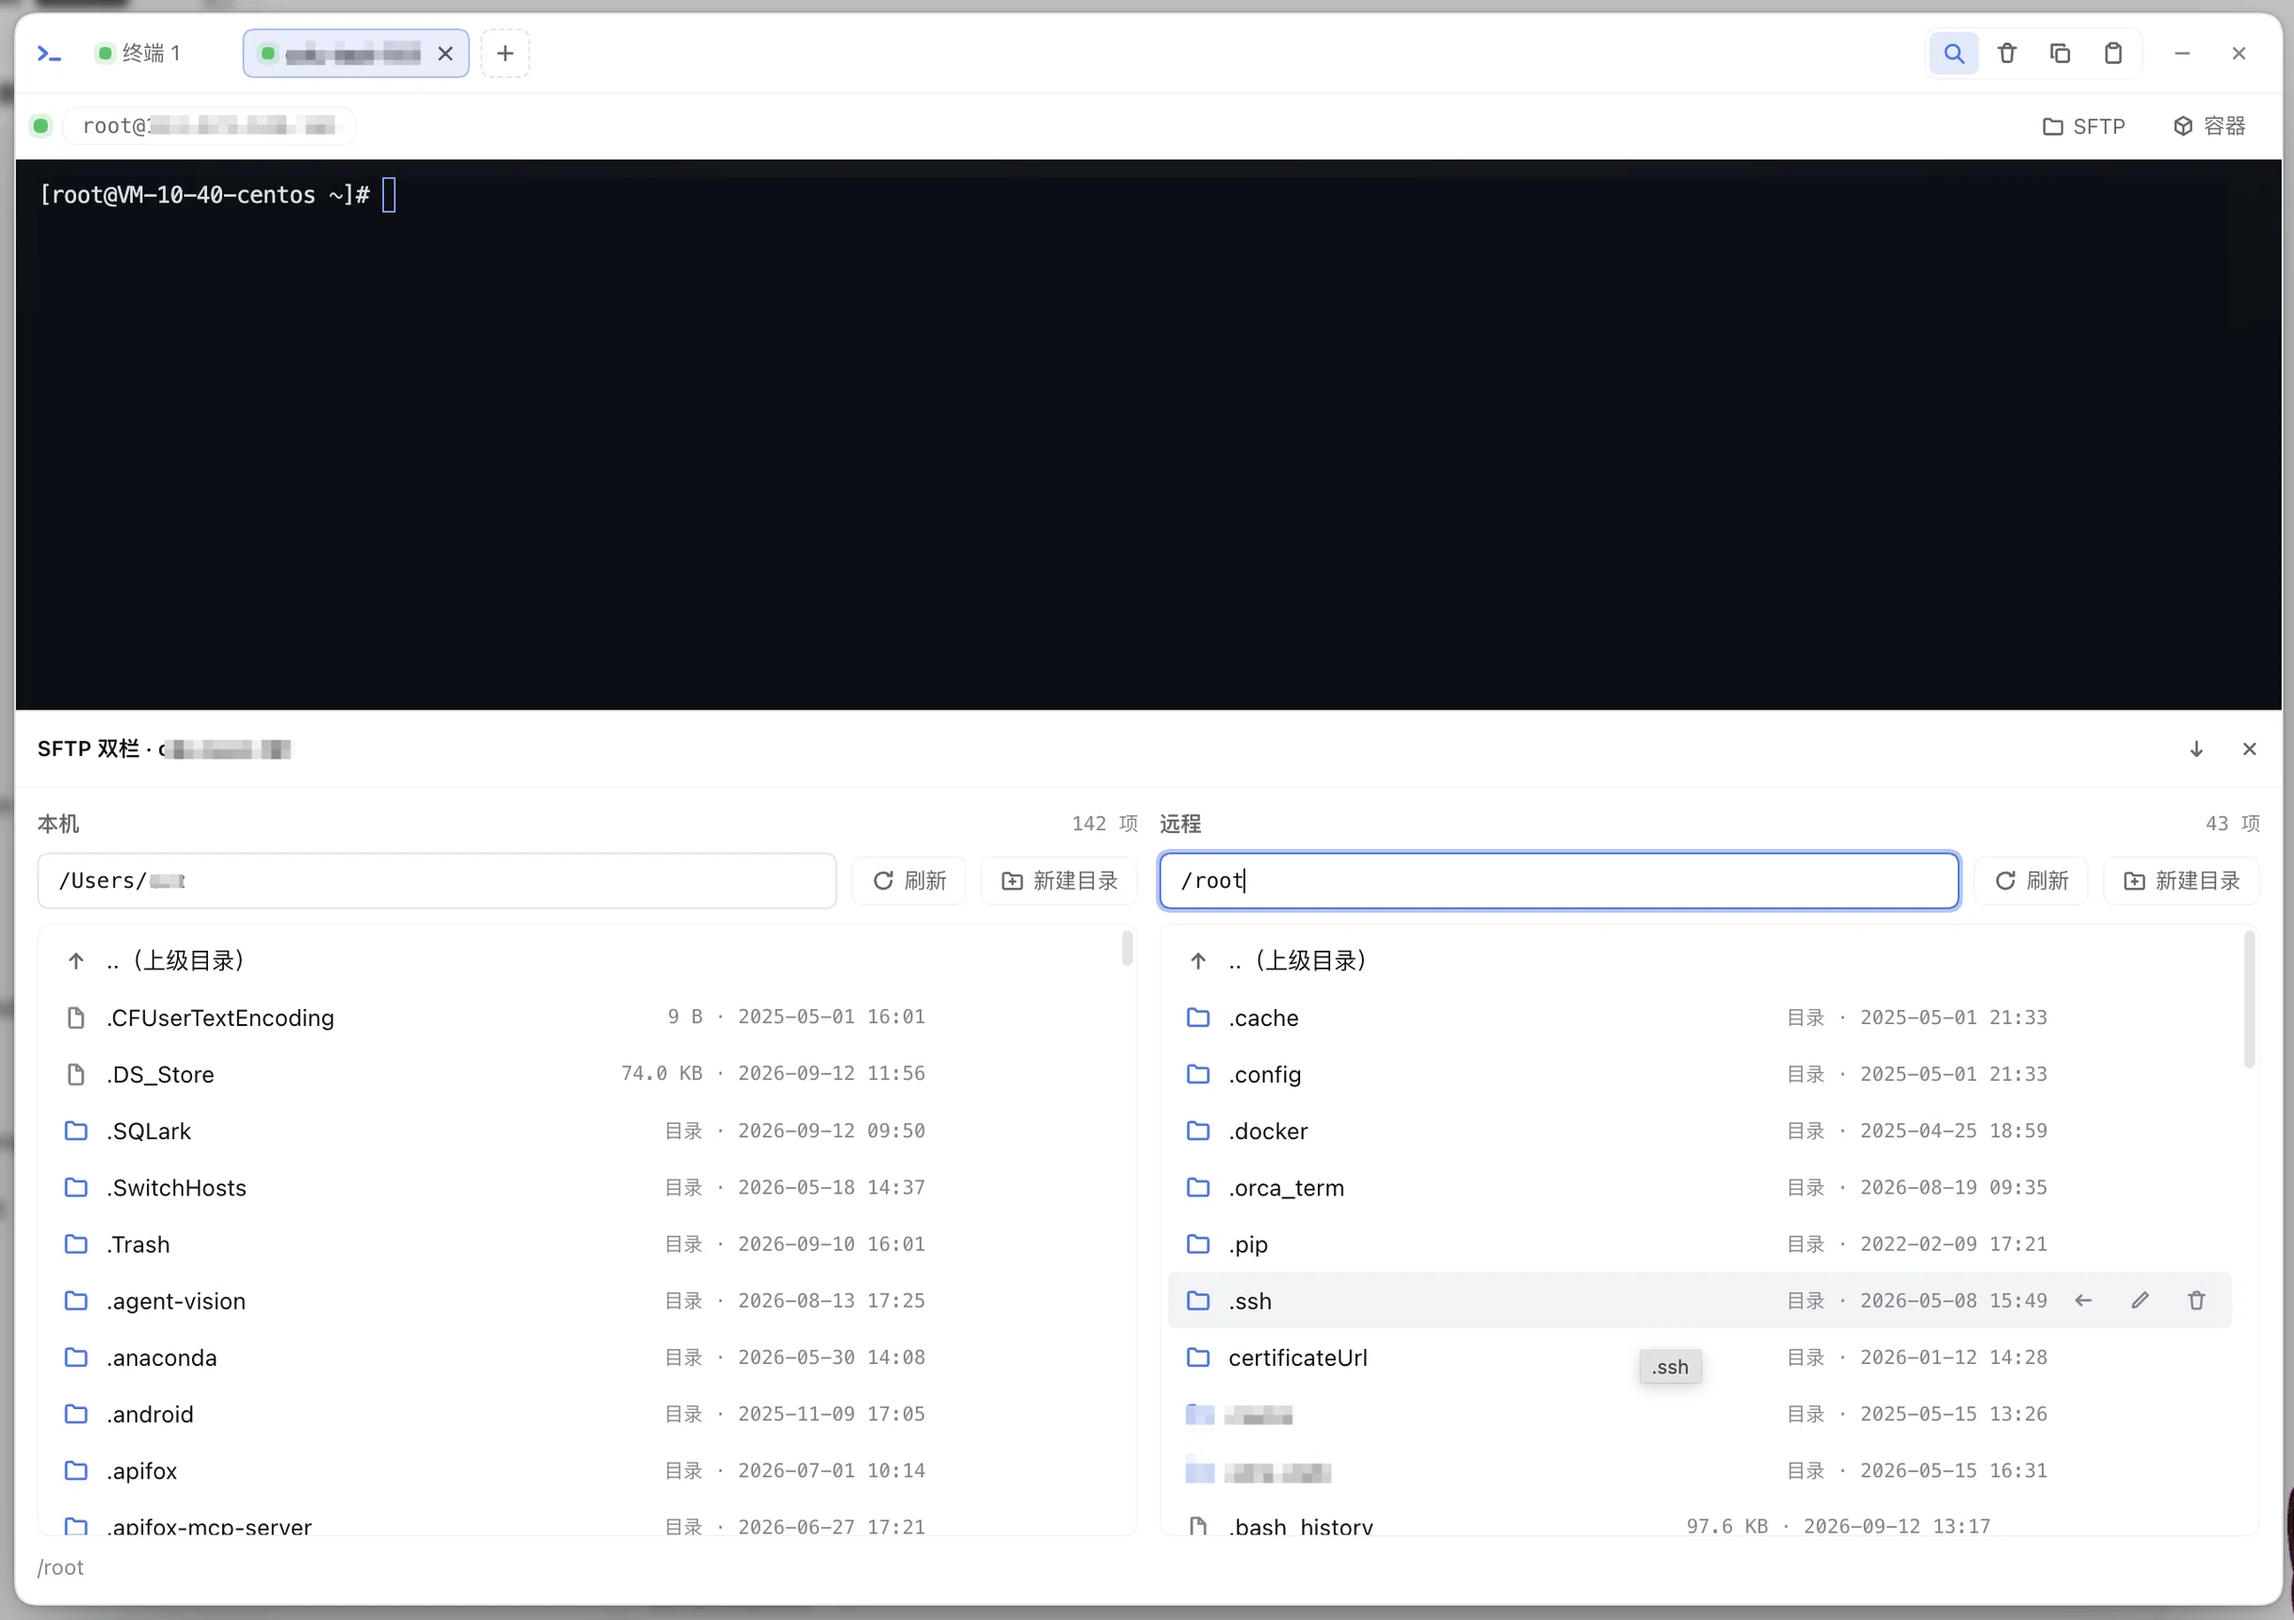
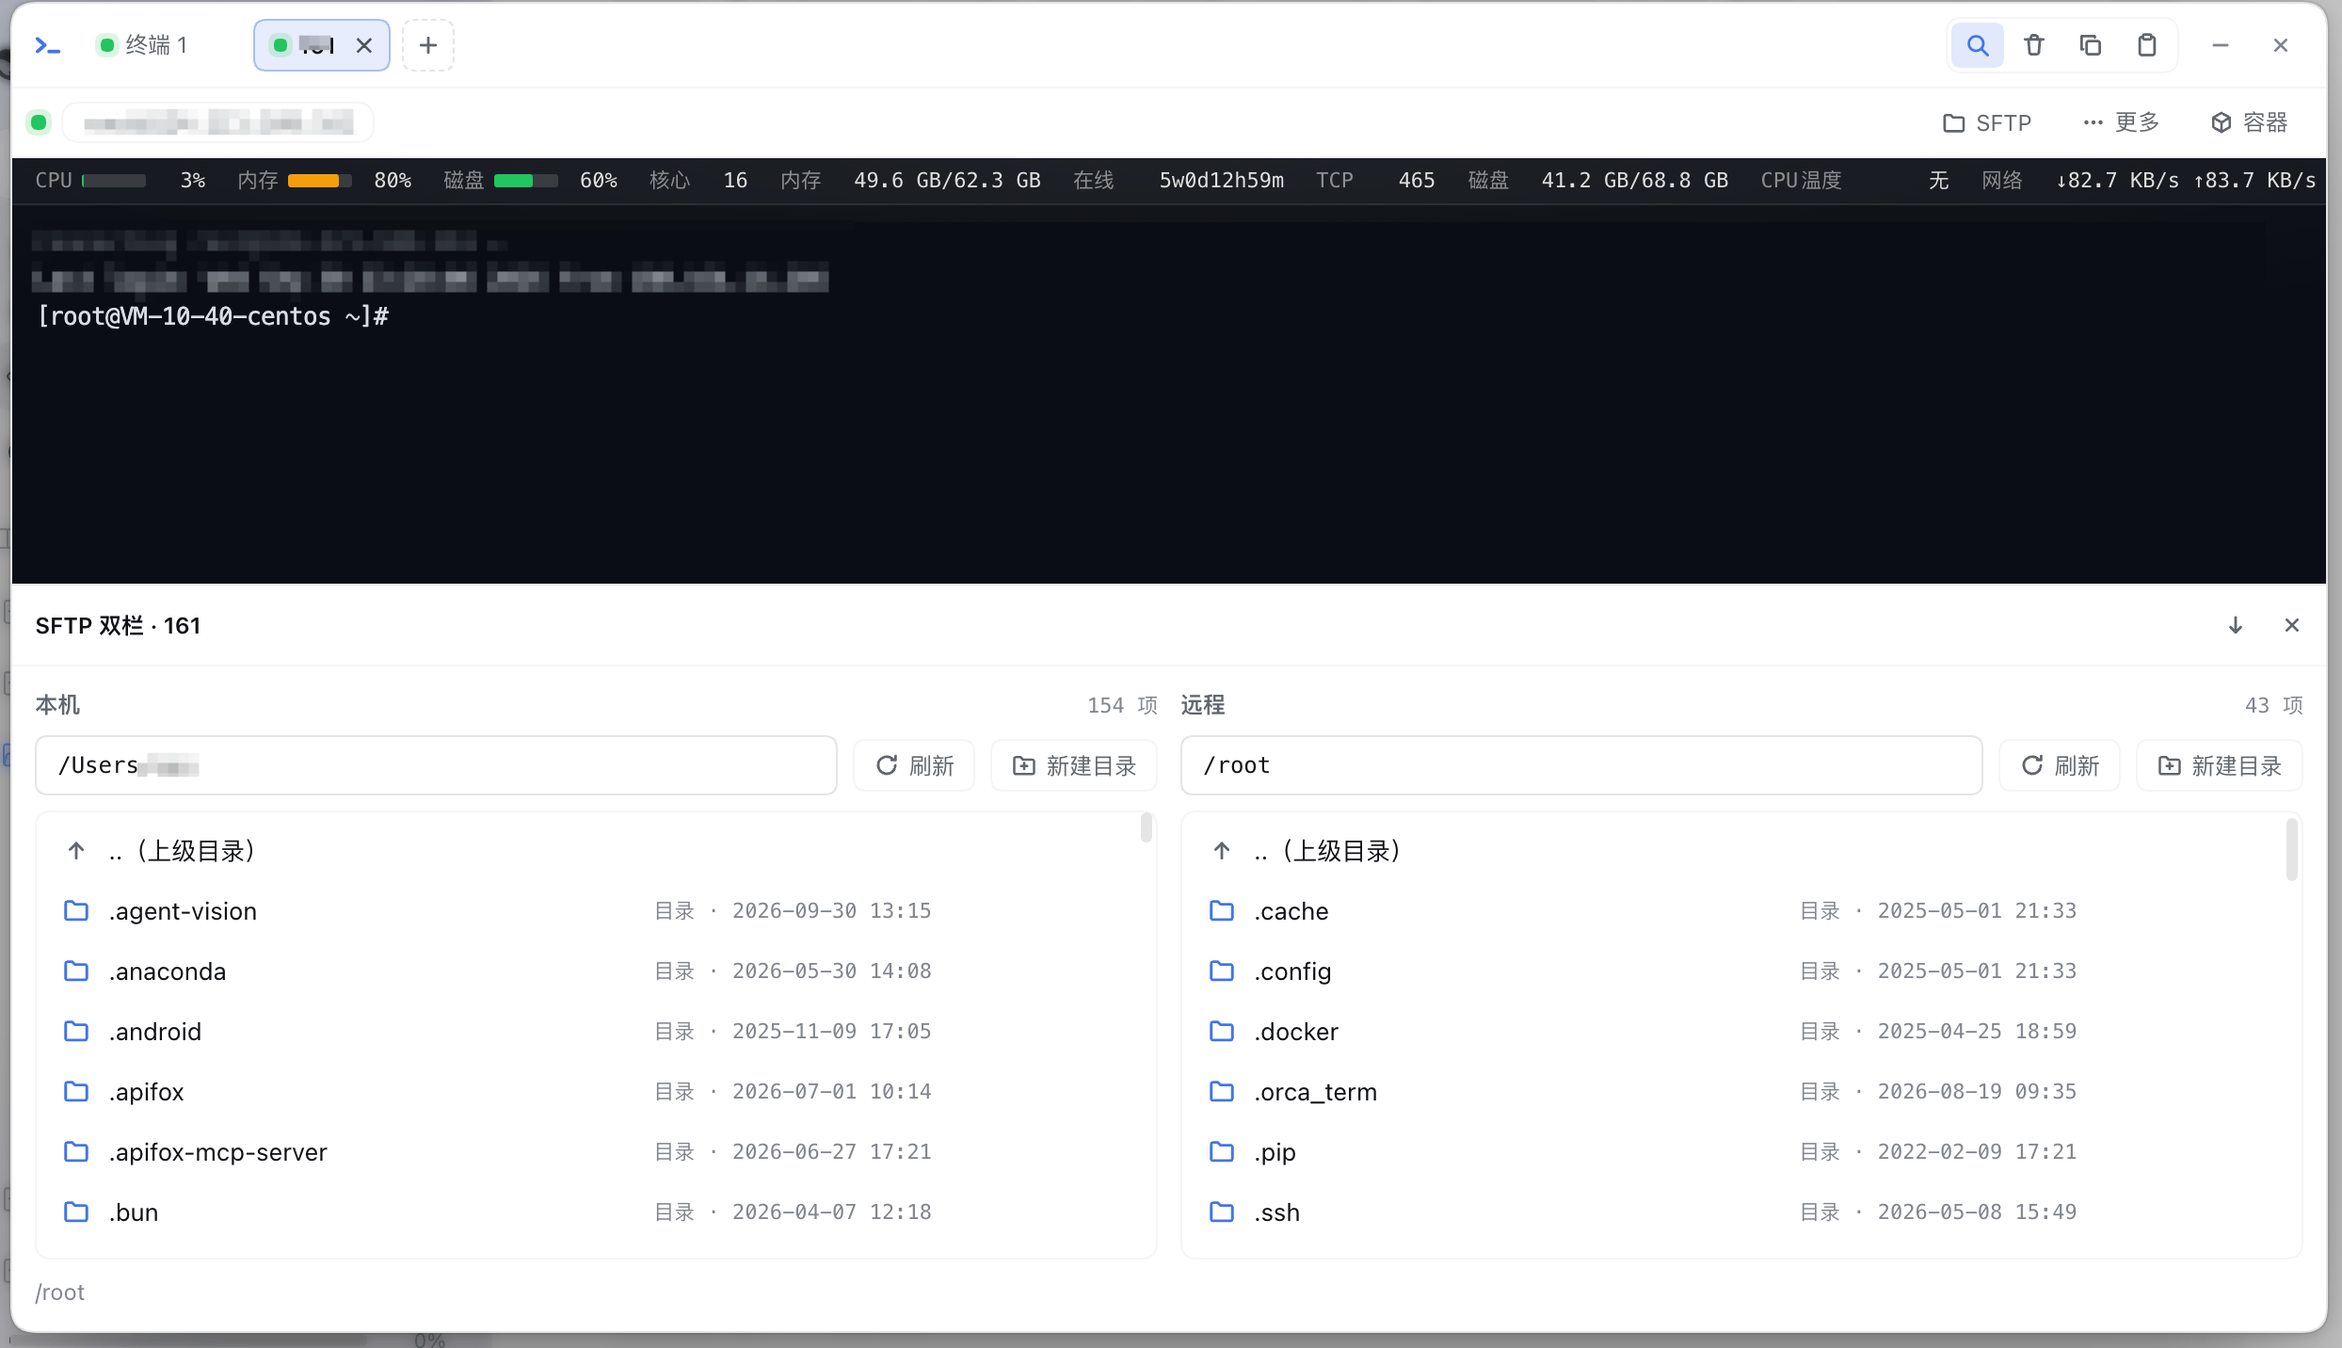
docs(readme): 换用最新的「今日值得读」与终端面板截图（单窗体 / 双栏）
- docs/dsh-plugin-kit-rss-view.png：换成当日「今日值得读」面板（分类筛选条 + 28/28 条，
  条目按分类与来源分区）
- docs/dsh-plugin-kit-tty-sftp-dialog.png：换成新版单窗体 SFTP 抽屉（终端状态条 + 远程目录浏览）
- docs/dsh-plugin-kit-tty-sftp-dual.png：换成新版「SFTP 双栏」抽屉（左本机 / 右远程）
- 首屏终端格由「双栏」改指「单窗体」那张，格内 alt 同步重写（中英各一处）；双栏资产保留，
  继续作为 packages/tty/README 的「SFTP 双栏」段落配图
- 三张图都是原图字节，未重新压缩、未裁剪；除首屏那一格外，各处引用与 jsDelivr @main/docs/ URL 未变

diff --git a/README.en.md b/README.en.md
@@ -40,8 +40,8 @@ and you can install them one by one or all at once with the aggregate package.
 
 <table>
 <tr>
-<td><img src="https://cdn.jsdelivr.net/gh/hyzyn/dsh-plugin-kit@main/docs/dsh-plugin-kit-rss-view.png" alt="RSS digest &quot;Today's Worth Reading&quot;: sidebar entry, the day's items grouped by source (IT之家 / Hacker News / Solidot)" width="400"></td>
-<td><img src="https://cdn.jsdelivr.net/gh/hyzyn/dsh-plugin-kit@main/docs/dsh-plugin-kit-tty-sftp-dual.png" alt="SFTP dual pane: local on the left, remote on the right, inline transfer" width="400"></td>
+<td><img src="https://cdn.jsdelivr.net/gh/hyzyn/dsh-plugin-kit@main/docs/dsh-plugin-kit-rss-view.png" alt="RSS digest &quot;Today's Worth Reading&quot;: the day's items grouped by category and source, searchable and filterable" width="400"></td>
+<td><img src="https://cdn.jsdelivr.net/gh/hyzyn/dsh-plugin-kit@main/docs/dsh-plugin-kit-tty-sftp-dialog.png" alt="Terminal panel: multi-tab real PTY with the server status bar, and the single-pane SFTP drawer below (browse / upload / mkdir)" width="400"></td>
 </tr>
 <tr>
 <td><img src="https://cdn.jsdelivr.net/gh/hyzyn/dsh-plugin-kit@main/docs/dsh-plugin-kit-docker-dock.png" alt="Docker container panel: docked as a sidebar tab next to the conversation" width="400"></td>
